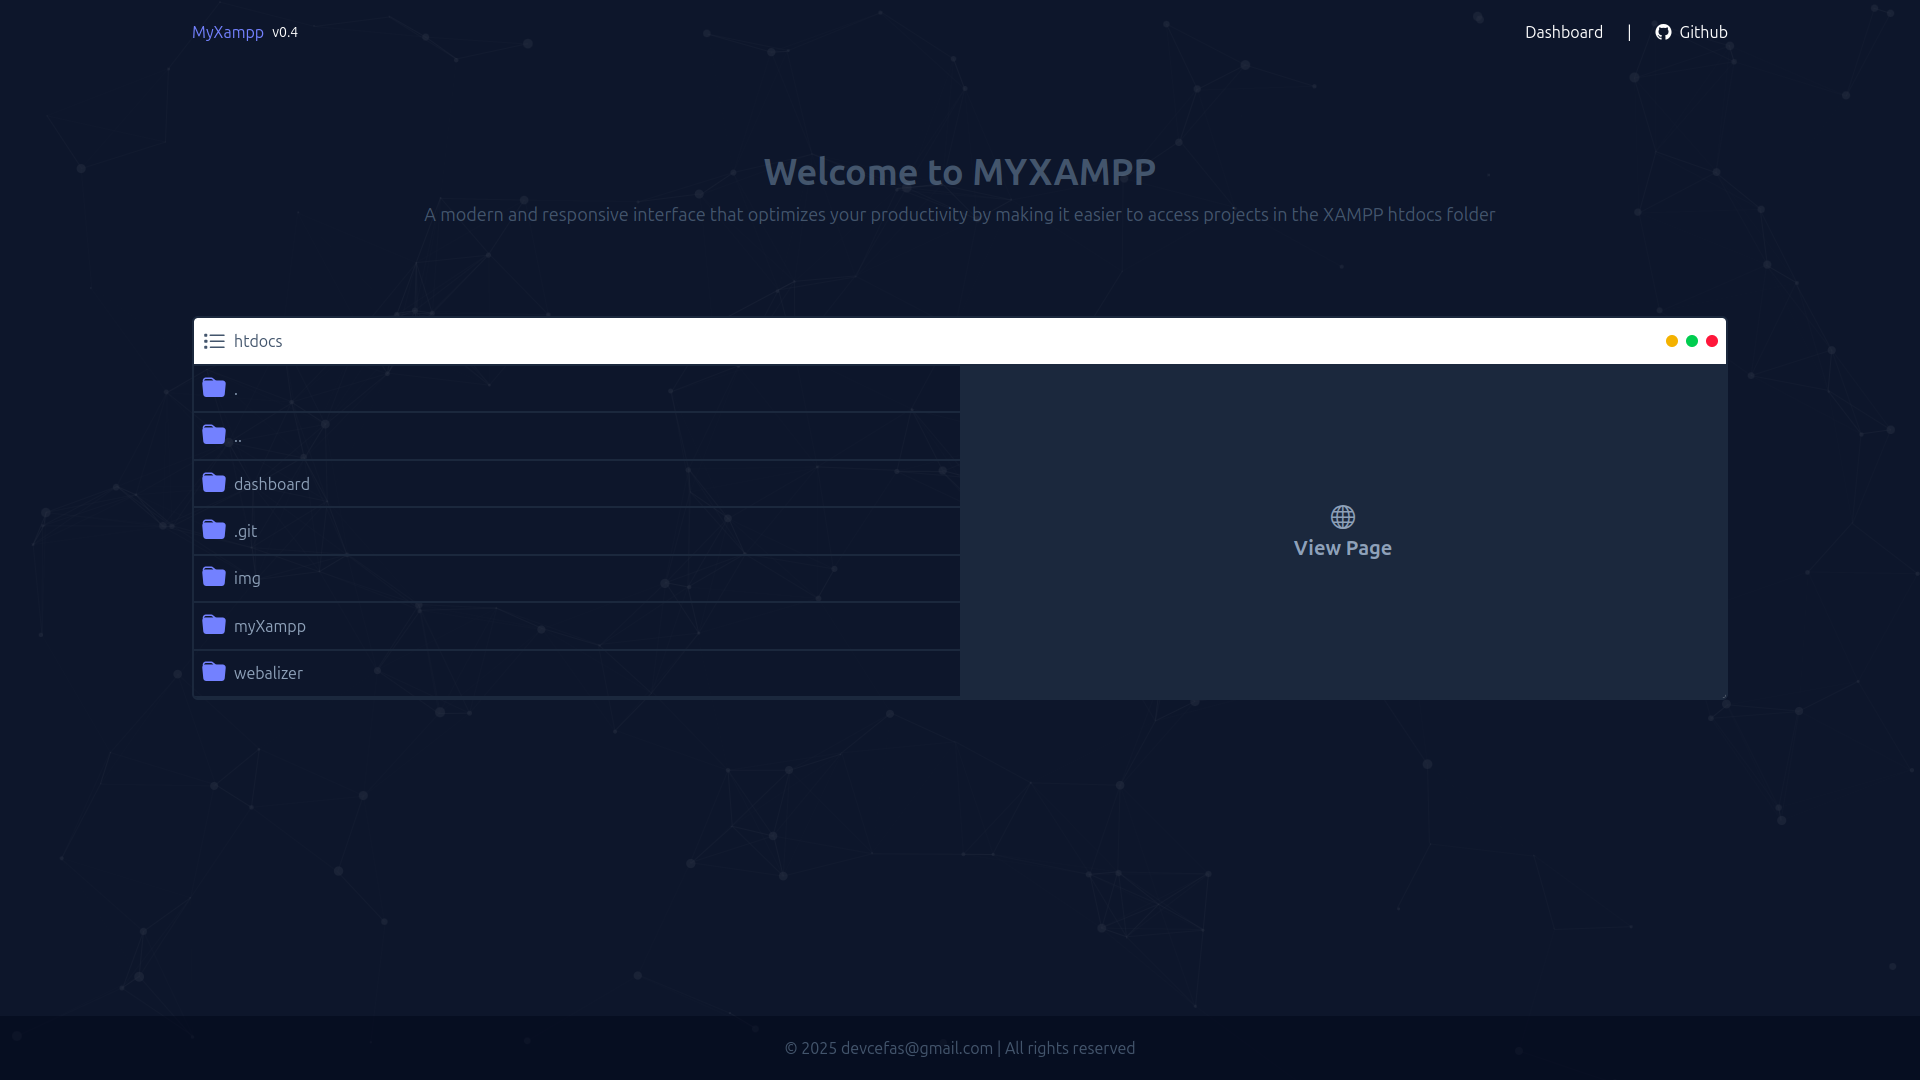
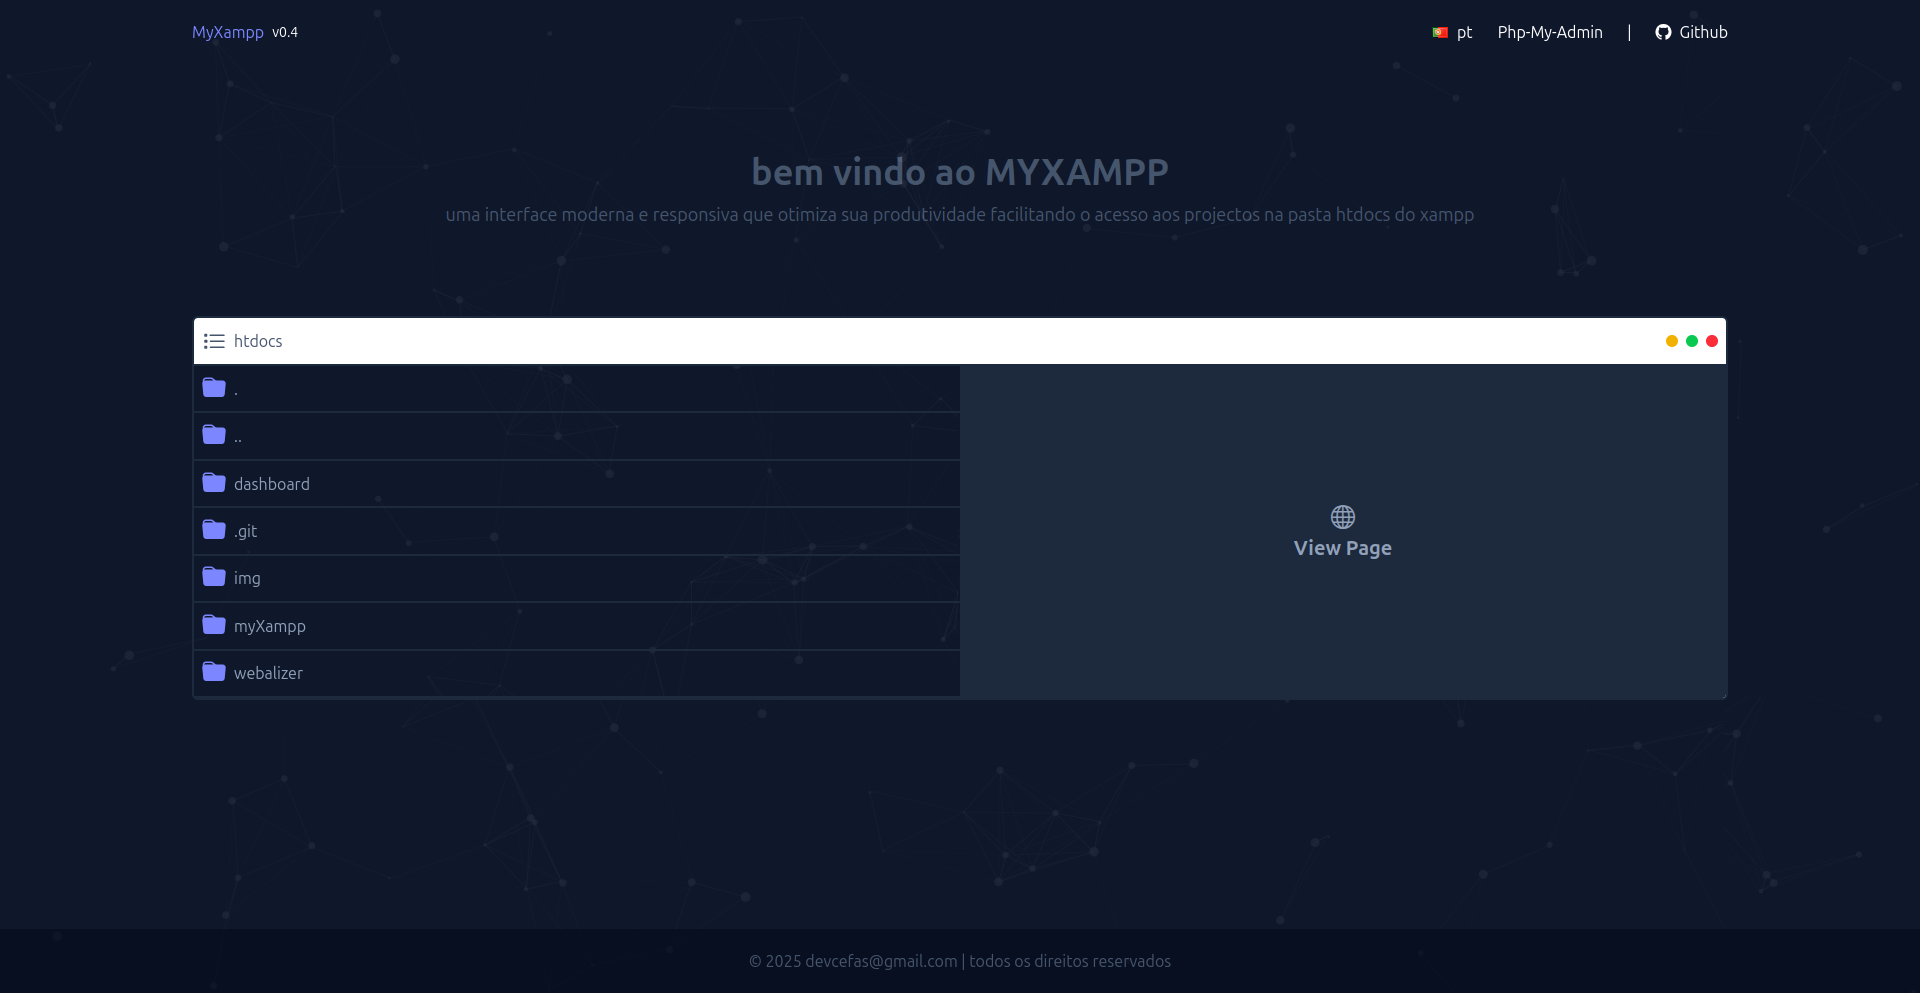
update readme

diff --git a/readme.md b/readme.md
@@ -3,23 +3,39 @@
 <img src='/public/images/en.png' alt='en translation'>
 "A modern and responsive interface that optimizes your productivity by making it easier to access projects in the XAMPP htdocs folder."
 <hr>
-<img src='/public/images/pt.png' alt='en translation'>
+<img src='/public/images/pt.png' alt='en translation'> 
 "Uma interface moderna e responsiva que otimiza sua produtividade facilitando o acesso a projetos na pasta htdocs do XAMPP."
 <hr>
 <h2>screenshots</h2>
 <img src='/public/images/screen.png' alt='screen capture'>
 
-
+<img src='/public/images/en.png' alt='en translation'>
 <h3>features</h3>
 
 - Automatic listing of projects in `htdocs`
 - Quick access via click
 
+<img src='/public/images/pt.png' alt='en translation'> 
+<h3>funcionalidades</h3>
+
+- Listagem automática de projetos em `htdocs`
+- Acesso rápido por clique
+- visualização em tempo real
+
+<img src='/public/images/en.png' alt='en translation'>
 <h4>how to use</h4>
 
 -download the project
 -move myXampp folder to htdocs directory of xampp server
 -replace all the code in the index.php file located at the root of the htdocs folder with the code below
+
+<img src='/public/images/pt.png' alt='en translation'> 
+<h4>como usar</h4>
+
+- baixe o projeto
+- extraia o arquivo zip
+- mova a pasta myXampp para o diretório htdocs do servidor xampp
+- substitua todo o código no arquivo index.php localizado na raiz da pasta htdocs pelo código abaixo
 
 ```php
 
